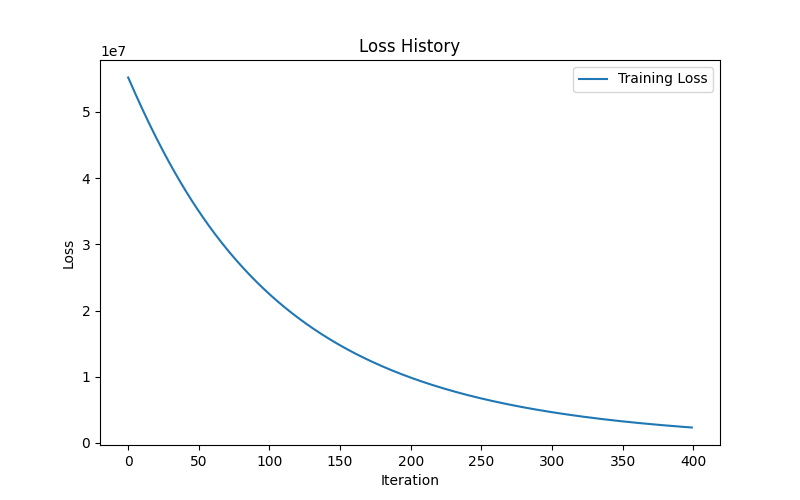
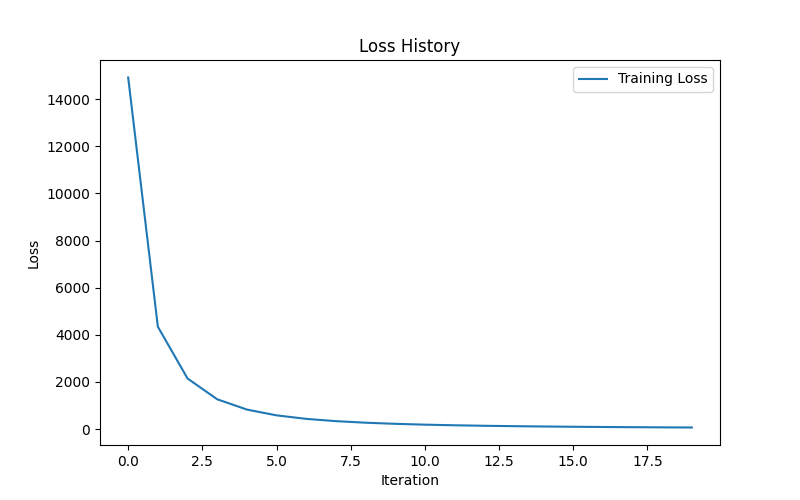
SGD implementation

diff --git a/src/SGD_bias.py b/src/SGD_bias.py
@@ -6,9 +6,10 @@ import torch
 import numpy as np
 from tqdm import tqdm
 from sklearn.metrics import mean_squared_error
+from torch.utils.data import DataLoader, TensorDataset
 
-class GDWithBias(bp.CollaborativeMethod):
-    def __init__(self, rank, lambda_I, mu_U, iter_n, beta, lr_I=1e-3, lr_U=1e-3, lr_B_U=1e-3, lr_B_I=1e-3, verbose=False):
+class SGDWithBias(bp.CollaborativeMethod):
+    def __init__(self, rank, lambda_I, mu_U, iter_n, beta, batch_size, lr_I=1e-3, lr_U=1e-3, lr_B_U=1e-3, lr_B_I=1e-3, verbose=False):
         self.param = {
             'rank': rank,
             'lambda_I': lambda_I,
@@ -18,11 +19,12 @@ class GDWithBias(bp.CollaborativeMethod):
             'lr_U': lr_U,
             'lr_B_U': lr_B_U,  # Learning rate for user bias
             'lr_B_I': lr_B_I,  # Learning rate for item bias
-            'beta': beta
+            'beta': beta,
+            'batch_size': batch_size
         }
         self.device = torch.device('cuda:2' if torch.cuda.is_available() else 'cpu')
         self.verbose = verbose
-        self.score_hist = np.array([]).reshape(0,2)
+        self.score_hist = np.array([]).reshape(0, 2)
         self.loss_hist = []
         self.bias_U = None
         self.bias_I = None
@@ -33,7 +35,7 @@ class GDWithBias(bp.CollaborativeMethod):
         self.bias_U = torch.zeros(incomplete_matrix.shape[1], requires_grad=True, device=self.device)  # User bias
         self.bias_I = torch.zeros(incomplete_matrix.shape[0], requires_grad=True, device=self.device)  # Item bias
         
-        optimizer = torch.optim.Adam([
+        optimizer = torch.optim.SGD([
             {'params': self.I, 'lr': self.param["lr_I"]},
             {'params': self.U, 'lr': self.param["lr_U"]},
             {'params': self.bias_U, 'lr': self.param["lr_B_U"]},
@@ -41,34 +43,62 @@ class GDWithBias(bp.CollaborativeMethod):
         ])
         return optimizer
     
-    def fit(self, incomplete_matrix, test_matrix=None):
+    def fit(self, incomplete_matrix, test_matrix=None, save_model=False):
         incomplete_matrix = torch.tensor(incomplete_matrix, dtype=torch.float32, device=self.device)
         mask = (incomplete_matrix > 0).detach().cpu().numpy()
+        
+        # Create a DataLoader for mini-batch processing
+        rows, cols = np.where(mask)
+        dataset = TensorDataset(torch.tensor(rows, dtype=torch.long), torch.tensor(cols, dtype=torch.long), incomplete_matrix[rows, cols])
+        dataloader = DataLoader(dataset, batch_size=self.param['batch_size'], shuffle=True)
+        
         optimizer = self.setup_optim(incomplete_matrix)
         
         for i in tqdm(range(self.param['iter_n'])):
-            optimizer.zero_grad()
-            complete_matrix = self.predict()
-            train_loss = self.masked_loss_bias(incomplete_matrix, self.I, self.U, mask)
+            epoch_loss = 0.0  # Accumulate loss over the epoch
+            num_batches = 0
+            
+            for batch_rows, batch_cols, batch_ratings in dataloader:
+                optimizer.zero_grad()
+                
+                # Predict ratings for the current batch
+                batch_I = self.I[batch_rows]
+                batch_U = self.U[batch_cols]
+                batch_bias_U = self.bias_U[batch_cols]
+                batch_bias_I = self.bias_I[batch_rows]
+                batch_preds = (batch_I * batch_U).sum(dim=1) + batch_bias_U + batch_bias_I
+                
+                # Compute loss for the current batch
+                batch_loss = self.masked_loss_bias(batch_preds, batch_ratings, batch_rows, batch_cols)
+                
+                batch_loss.backward()
+                optimizer.step()
+                
+                epoch_loss += batch_loss.item()  # Accumulate batch loss
+                num_batches += 1
+            
+            # Record the average loss for the epoch
+            epoch_loss /= num_batches
+            self.loss_hist.append(epoch_loss)
             
             if self.verbose:
+                complete_matrix = self.predict()
                 train_score = np.sqrt(mean_squared_error(incomplete_matrix[mask].detach().cpu().numpy(), complete_matrix[mask]))
                 test_score = np.sqrt(mean_squared_error(test_matrix[test_matrix > 0], complete_matrix[test_matrix > 0]))
                 self.score_hist = np.append(self.score_hist, [[train_score, test_score]], axis=0)
                 print(f"Iteration {i+1}: Train RMSE = {train_score}, Test RMSE = {test_score}")
-                print(f"Loss = {train_loss}")
+                print(f"Loss = {epoch_loss}")
                 
-            train_loss.backward()
-            optimizer.step()
-            self.loss_hist.append(train_loss.detach().cpu().numpy())
+        if save_model:
+            torch.save({'I': self.I, 'U': self.U, 'bias_U': self.bias_U, 'bias_I': self.bias_I}, 'model_checkpoint.pth')
+            print("Model saved successfully!")
     
-    def masked_loss_bias(self, matrix, I, U, mask):
-        bias_term = self.bias_U.unsqueeze(0) + self.bias_I.unsqueeze(1)  # Adding user and item biases
-        main = ((matrix - (I @ U.T + bias_term))**2)[mask].sum()
-        reg_I = self.param['lambda_I'] * (I**2).sum()
-        reg_U = self.param['mu_U'] * (U**2).sum()
-        reg_bias_U = self.param['beta'] * (self.bias_U**2).sum()
-        reg_bias_I = self.param['beta'] * (self.bias_I**2).sum()
+    def masked_loss_bias(self, preds, targets, rows, cols):
+        main = ((preds - targets) ** 2).sum()
+        reg_I = self.param['lambda_I'] * (self.I[rows] ** 2).sum()
+        reg_U = self.param['mu_U'] * (self.U[cols] ** 2).sum()
+        reg_bias_U = self.param['beta'] * (self.bias_U[cols] ** 2).sum()
+        reg_bias_I = self.param['beta'] * (self.bias_I[rows] ** 2).sum()
         return main + reg_I + reg_U + reg_bias_U + reg_bias_I
     
     def predict(self):
@@ -101,7 +131,6 @@ class GDWithBias(bp.CollaborativeMethod):
             print(f"Final test RMSE: {self.score_hist[-1, 1]}")
         else:
             print("Score history is empty. Enable verbose mode to track scores.")
-            
         
 
 
@@ -109,8 +138,8 @@ if __name__ == "__main__":
     dataloader = dl.Dataloader(train_ratio=0.80)
     train_matrix, test_matrix = dataloader.load_data()
     
-    model = GDWithBias(100, 1e-3, 1e-3, 400, 0.1, verbose=True)
-    model.fit(train_matrix, test_matrix)
+    model = SGDWithBias(100, 1e-3, 1e-3, 20, 0.1, batch_size=64 ,verbose=True)
+    model.fit(train_matrix, test_matrix, save_model=True)
     
     model.plot_loss_history()
     model.plot_score_history()

diff --git a/src/ranking/Ranking.py b/src/ranking/Ranking.py
@@ -1,0 +1,99 @@
+import numpy as np
+import lightgbm as lgb
+from sklearn.preprocessing import StandardScaler
+import base_pipeline as bp
+
+class Ranking(bp.RankingMethod):
+    def __init__(self, interaction_matrix, job_embeddings):
+        """
+        Initialize Ranking model with interaction matrix and job embeddings.
+        :param interaction_matrix: Sparse matrix (users x jobs) with interaction scores (1 for view, 5 for apply).
+        :param job_embeddings: Dictionary mapping job IDs to embedding vectors.
+        """
+        self.interaction_matrix = interaction_matrix
+        self.job_embeddings = job_embeddings
+        self.model = None
+        self.scaler = StandardScaler()
+    
+    def prepare_training_data(self):
+        """
+        Generate training data from the entire interaction matrix.
+        :return: Feature matrix X and labels y.
+        """
+        features = []
+        labels = []
+        
+        num_users, num_jobs = self.interaction_matrix.shape
+        
+        for user_id in range(num_users):
+            user_interactions = self.interaction_matrix[user_id].toarray().flatten()
+            
+            for job_id in range(num_jobs):
+                score = user_interactions[job_id] if job_id < len(user_interactions) else 0
+                # job_embedding = self.job_embeddings.get(job_id, np.zeros(300))  # Assuming 300-dim embeddings
+                
+                # Generate features (interaction score + job embedding)
+                # features.append(np.concatenate(([score], job_embedding)))
+                features.append(score)
+                labels.append(score)
+        
+        # Normalize features
+        X = self.scaler.fit_transform(features)
+        y = np.array(labels)
+        return X, y
+    
+    def train(self):
+        """
+        Train the ranking model using the entire dataset.
+        """
+        X, y = self.prepare_training_data()
+        train_data = lgb.Dataset(X, label=y)
+        params = {'objective': 'lambdarank', 'metric': 'ndcg', 'verbosity': -1}
+        self.model = lgb.train(params, train_data, num_boost_round=50)
+    
+    def top_k(self, user_id, k=10):
+        """
+        Rank the Top-K jobs for a given user using the trained model.
+        :param user_id: ID of the user.
+        :param k: Number of top jobs to return.
+        :return: List of Top-K ranked job IDs.
+        """
+        if self.model is None:
+            raise ValueError("Model is not trained yet!")
+        
+        user_interactions = self.interaction_matrix[user_id].toarray().flatten()
+        features = []
+        job_ids = []
+        
+        for job_id in range(len(user_interactions)):
+            score = user_interactions[job_id]
+            job_embedding = self.job_embeddings.get(job_id, np.zeros(300))
+            features.append(np.concatenate(([score], job_embedding)))
+            job_ids.append(job_id)
+        
+        X = self.scaler.transform(features)
+        scores = self.model.predict(X)
+        ranked_indices = np.argsort(scores)[::-1]  # Sort in descending order
+        
+        return [job_ids[i] for i in ranked_indices[:k]]
+    
+    def predict(self, start_user_id=15882, action="apply", output_file="predictions.csv"):
+        """
+        Generate predictions for all users starting from row 15882 of the interaction matrix
+        and save the results in a CSV file.
+        :param start_user_id: Starting user ID for predictions.
+        :param action: Action type (default: "apply").
+        :param output_file: Output CSV file name.
+        """
+        predictions = []
+        num_users, _ = self.interaction_matrix.shape
+        
+        for user_id in range(start_user_id, num_users):
+            top_10_jobs = self.top_k(user_id, k=10)
+            predictions.append([user_id - start_user_id, action, top_10_jobs])
+        
+        df = pd.DataFrame(predictions, columns=["session_id", "action", "job_id"])
+        df.to_csv(output_file, index=False)
+        print(f"Predictions saved to {output_file}")
+            
+            

diff --git a/src/base_pipeline.py b/src/base_pipeline.py
@@ -25,10 +25,10 @@ class CollaborativePipeline:
         self.method = method
         self.ranking_method = ranking_method
         
-    def run(self, X_train, y_train, X_test):
+    def run(self, X_train, y_train):
         self.method.fit(X_train, y_train)
         interations = self.method.predict(X_train)
-        
+        self.ranking_method.fit(interations, y_train)
     
     def evaluate(self, X, y):
         y_pred = self.predict(X)

diff --git a/train.py b/train.py
@@ -1,6 +1,6 @@
 import optuna
 import src.base_pipeline as bp
-import src.GD_bias as gd
+import SGD_bias as gd
 import src.dataloader as dl
 import numpy as np
 from joblib import Parallel, delayed
